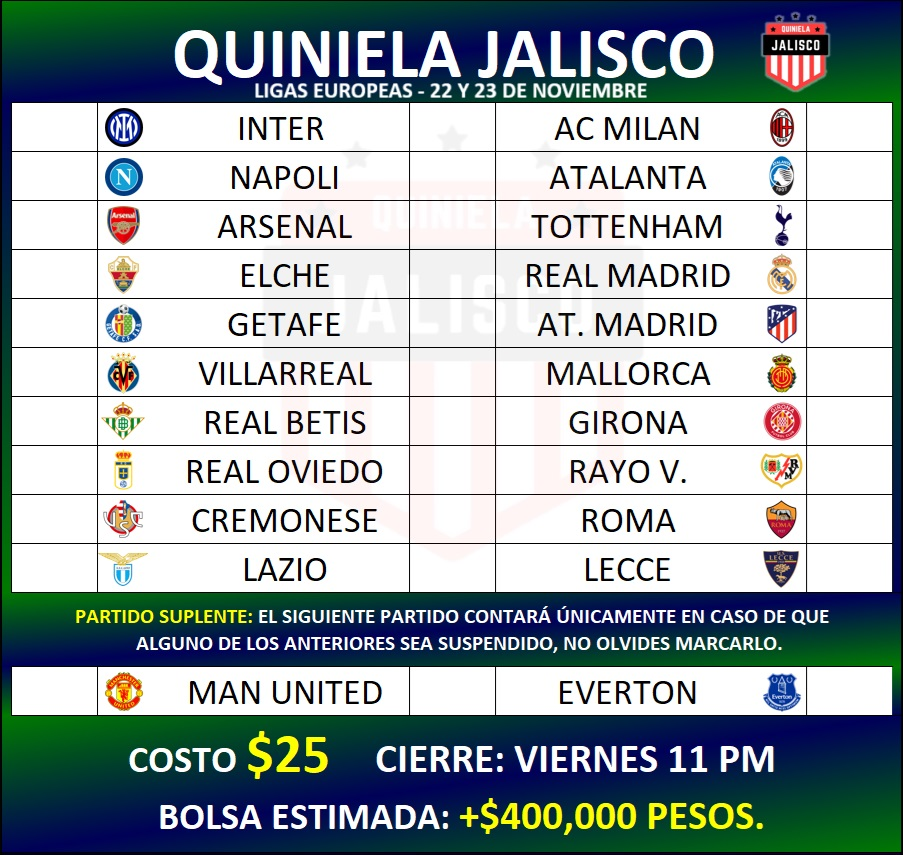
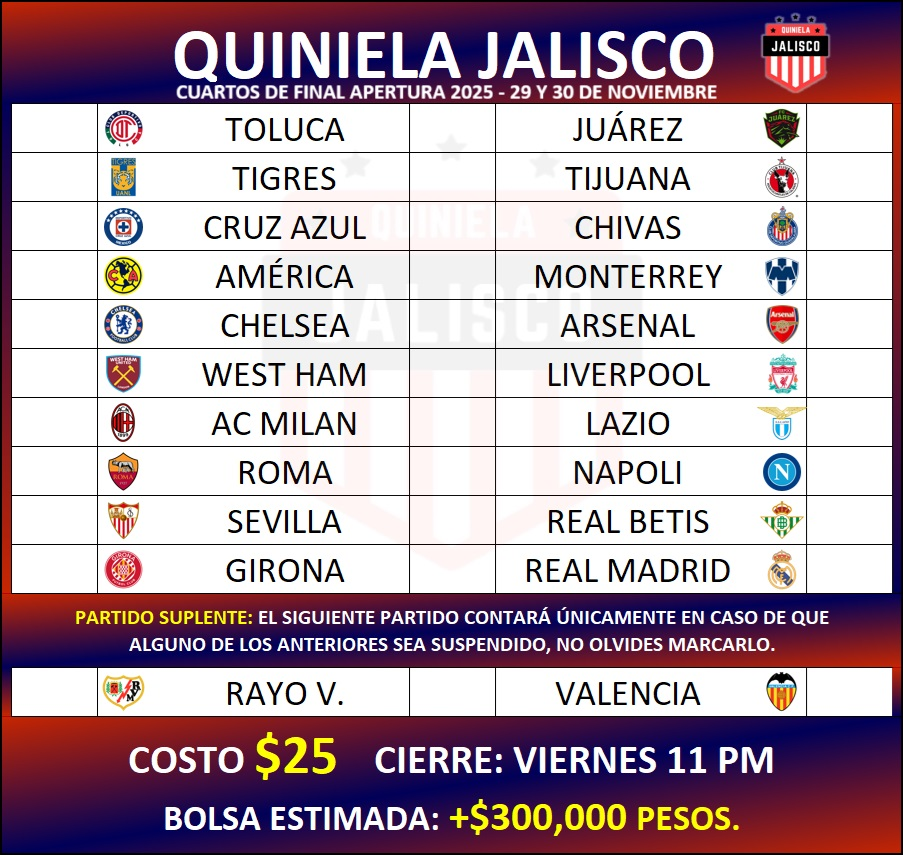
ojgdop

diff --git a/11/styles11.css b/11/styles11.css
@@ -95,8 +95,8 @@ body{
     margin-top: 8.5%;
     border-top: solid 1px black;
     border-radius: 0 0 14px 14px;
-    background: -webkit-linear-gradient(0.49turn, rgb(0,70,40) -7%, rgb(0,6,90) 80%);
-    background: linear-gradient(0.49turn, rgb(0,70,40) -7%, rgb(0,6,90) 80%);
+    background: -webkit-linear-gradient(0.49turn, rgb(120,25,35) -7%, rgb(0,6,90) 80%);
+    background: linear-gradient(0.49turn, rgb(120,25,35) -7%, rgb(0,6,90) 80%);
 }
 
 .text-lg{
@@ -295,7 +295,7 @@ h6{
 }
 
 #cantidad:before{
-    content:'+$400,000 pesos';
+    content:'+$300,000 pesos';
     color: yellow;
     white-space:pre;
 }
